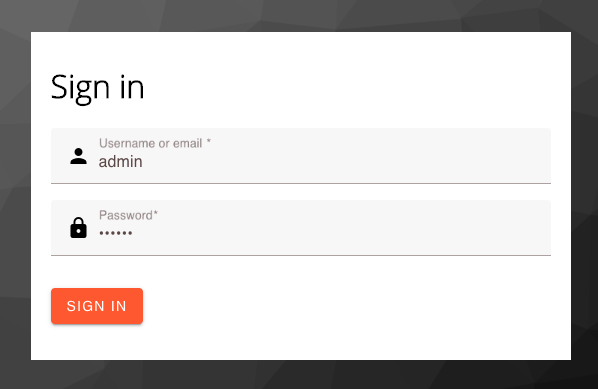
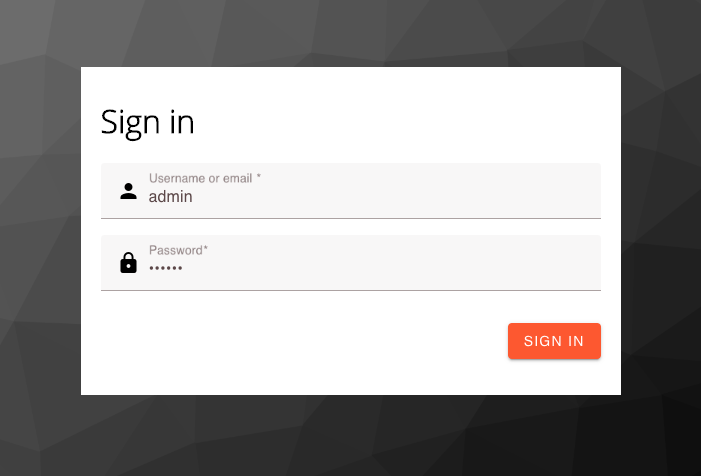
Updated the Login template

Changed region(s): [[0.0301, 0.0617, 0.9632, 0.9254]]

diff --git a/theme/login/resources/css/login.scss b/theme/login/resources/css/login.scss
@@ -2,6 +2,17 @@
 @import "@material/textfield/mdc-text-field";
 @import "@material/button/mdc-button";
 
+.mdc-text-field__icon {
+  padding-left: 16px;
+}
+
+.card-actions {
+  // align-content: flex-end;
+  // float: right;
+  padding-bottom: 16px;
+  text-align: right;
+}
+
 .form-group {
   // margin-bottom: 16px;
   padding-bottom: 16px;
@@ -16,9 +27,6 @@
 }
 
 .btn-primary {
-  // float: right;
-  // text-align: right;
-  // align-content: flex-end;
 }
 
 // /*

diff --git a/theme/login/resources/css/login.css b/theme/login/resources/css/login.css
@@ -2141,6 +2141,15 @@ svg.mdc-button__icon {
   height: 36px;
 }
 
+.mdc-text-field__icon {
+  padding-left: 16px;
+}
+
+.card-actions {
+  padding-bottom: 16px;
+  text-align: right;
+}
+
 .form-group {
   padding-bottom: 16px;
 }
